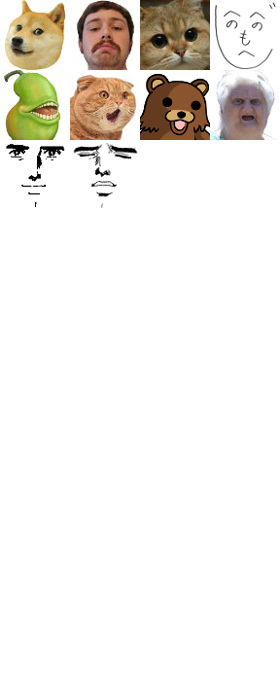
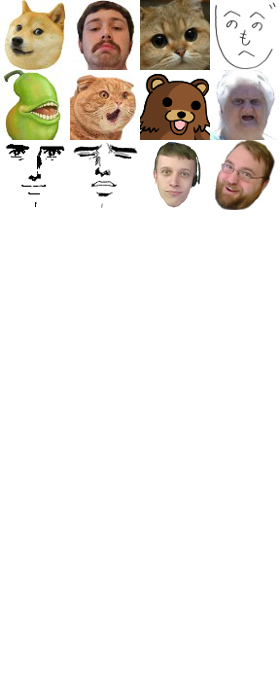
Add two more emotes
Derika and Babz
Also fixes to emote aliases.

Changed region(s): [[0.7714, 0.18, 1.0, 0.3], [0.5429, 0.18, 0.7143, 0.3]]

diff --git a/JabbR/Chat.emoji.js b/JabbR/Chat.emoji.js
@@ -7,13 +7,13 @@ var EmojiIcons;
     var validEmoji = { "+1": true, "-1": true, "0": true, "1": true, "109": true, "2": true, "3": true, "4": true, "5": true, "6": true, "7": true, "8": true, "8ball": true, "9": true, "a": true, "ab": true, "airplane": true, "alien": true, "ambulance": true, "angel": true, "anger": true, "angry": true, "apple": true, "aquarius": true, "aries": true, "arrow_backward": true, "arrow_down": true, "arrow_forward": true, "arrow_left": true, "arrow_lower_left": true, "arrow_lower_right": true, "arrow_right": true, "arrow_up": true, "arrow_upper_left": true, "arrow_upper_right": true, "art": true, "astonished": true, "atm": true, "b": true, "baby": true, "baby_chick": true, "baby_symbol": true, "balloon": true, "bamboo": true, "bank": true, "barber": true, "baseball": true, "basketball": true, "bath": true, "bear": true, "beer": true, "beers": true, "beginner": true, "bell": true, "bento": true, "bike": true, "bikini": true, "bird": true, "birthday": true, "black_square": true, "blue_car": true, "blue_heart": true, "blush": true, "boar": true, "boat": true, "bomb": true, "book": true, "boot": true, "bouquet": true, "bow": true, "bowtie": true, "boy": true, "bread": true, "briefcase": true, "broken_heart": true, "bug": true, "bulb": true, "bullettrain_front": true, "bullettrain_side": true, "bus": true, "busstop": true, "cactus": true, "cake": true, "calling": true, "camel": true, "camera": true, "cancer": true, "capricorn": true, "car": true, "cat": true, "cd": true, "chart": true, "checkered_flag": true, "cherry_blossom": true, "chicken": true, "christmas_tree": true, "church": true, "cinema": true, "city_sunrise": true, "city_sunset": true, "clap": true, "clapper": true, "clock1": true, "clock10": true, "clock11": true, "clock12": true, "clock2": true, "clock3": true, "clock4": true, "clock5": true, "clock6": true, "clock7": true, "clock8": true, "clock9": true, "closed_umbrella": true, "cloud": true, "clubs": true, "cn": true, "cocktail": true, "coffee": true, "cold_sweat": true, "computer": true, "confounded": true, "congratulations": true, "construction": true, "construction_worker": true, "convenience_store": true, "cool": true, "cop": true, "copyright": true, "couple": true, "couple_with_heart": true, "couplekiss": true, "cow": true, "crossed_flags": true, "crown": true, "cry": true, "cupid": true, "currency_exchange": true, "curry": true, "cyclone": true, "dancer": true, "dancers": true, "dango": true, "dart": true, "dash": true, "de": true, "department_store": true, "diamonds": true, "disappointed": true, "dog": true, "dolls": true, "dolphin": true, "dress": true, "dvd": true, "ear": true, "ear_of_rice": true, "egg": true, "eggplant": true, "eight_pointed_black_star": true, "eight_spoked_asterisk": true, "elephant": true, "email": true, "es": true, "european_castle": true, "exclamation": true, "eyes": true, "factory": true, "fallen_leaf": true, "fast_forward": true, "fax": true, "fearful": true, "feelsgood": true, "feet": true, "ferris_wheel": true, "finnadie": true, "fire": true, "fire_engine": true, "fireworks": true, "fish": true, "fist": true, "flags": true, "flushed": true, "football": true, "fork_and_knife": true, "fountain": true, "four_leaf_clover": true, "fr": true, "fries": true, "frog": true, "fuelpump": true, "gb": true, "gem": true, "gemini": true, "ghost": true, "gift": true, "gift_heart": true, "girl": true, "goberserk": true, "godmode": true, "golf": true, "green_heart": true, "grey_exclamation": true, "grey_question": true, "grin": true, "guardsman": true, "guitar": true, "gun": true, "haircut": true, "hamburger": true, "hammer": true, "hamster": true, "hand": true, "handbag": true, "hankey": true, "hash": true, "headphones": true, "heart": true, "heart_decoration": true, "heart_eyes": true, "heartbeat": true, "heartpulse": true, "hearts": true, "hibiscus": true, "high_heel": true, "horse": true, "hospital": true, "hotel": true, "hotsprings": true, "house": true, "hurtrealbad": true, "icecream": true, "id": true, "ideograph_advantage": true, "imp": true, "information_desk_person": true, "iphone": true, "it": true, "jack_o_lantern": true, "japanese_castle": true, "joy": true, "jp": true, "key": true, "kimono": true, "kiss": true, "kissing_face": true, "kissing_heart": true, "koala": true, "koko": true, "kr": true, "leaves": true, "leo": true, "libra": true, "lips": true, "lipstick": true, "lock": true, "loop": true, "loudspeaker": true, "love_hotel": true, "mag": true, "mahjong": true, "mailbox": true, "man": true, "man_with_gua_pi_mao": true, "man_with_turban": true, "maple_leaf": true, "mask": true, "massage": true, "mega": true, "memo": true, "mens": true, "metal": true, "metro": true, "microphone": true, "minidisc": true, "mobile_phone_off": true, "moneybag": true, "monkey": true, "monkey_face": true, "moon": true, "mortar_board": true, "mount_fuji": true, "mouse": true, "movie_camera": true, "muscle": true, "musical_note": true, "nail_care": true, "necktie": true, "new": true, "no_good": true, "no_smoking": true, "nose": true, "notes": true, "o": true, "o2": true, "ocean": true, "octocat": true, "octopus": true, "oden": true, "office": true, "ok": true, "ok_hand": true, "ok_woman": true, "older_man": true, "older_woman": true, "open_hands": true, "ophiuchus": true, "palm_tree": true, "parking": true, "part_alternation_mark": true, "pencil": true, "penguin": true, "pensive": true, "persevere": true, "person_with_blond_hair": true, "phone": true, "pig": true, "pill": true, "pisces": true, "point_down": true, "point_left": true, "point_right": true, "point_up": true, "point_up_2": true, "police_car": true, "poop": true, "post_office": true, "postbox": true, "pray": true, "princess": true, "punch": true, "purple_heart": true, "question": true, "rabbit": true, "racehorse": true, "radio": true, "rage": true, "rage1": true, "rage2": true, "rage3": true, "rage4": true, "rainbow": true, "raised_hands": true, "ramen": true, "red_car": true, "red_circle": true, "registered": true, "relaxed": true, "relieved": true, "restroom": true, "rewind": true, "ribbon": true, "rice": true, "rice_ball": true, "rice_cracker": true, "rice_scene": true, "ring": true, "rocket": true, "roller_coaster": true, "rose": true, "ru": true, "runner": true, "sa": true, "sagittarius": true, "sailboat": true, "sake": true, "sandal": true, "santa": true, "satellite": true, "satisfied": true, "saxophone": true, "school": true, "school_satchel": true, "scissors": true, "scorpius": true, "scream": true, "seat": true, "secret": true, "shaved_ice": true, "sheep": true, "shell": true, "ship": true, "shipit": true, "shirt": true, "shit": true, "shoe": true, "signal_strength": true, "six_pointed_star": true, "ski": true, "skull": true, "sleepy": true, "slot_machine": true, "smile": true, "smiley": true, "smirk": true, "smoking": true, "snake": true, "snowman": true, "sob": true, "soccer": true, "space_invader": true, "spades": true, "spaghetti": true, "sparkler": true, "sparkles": true, "speaker": true, "speedboat": true, "squirrel": true, "star": true, "star2": true, "stars": true, "station": true, "statue_of_liberty": true, "stew": true, "strawberry": true, "sunflower": true, "sunny": true, "sunrise": true, "sunrise_over_mountains": true, "surfer": true, "sushi": true, "suspect": true, "sweat": true, "sweat_drops": true, "swimmer": true, "syringe": true, "tada": true, "tangerine": true, "taurus": true, "taxi": true, "tea": true, "telephone": true, "tennis": true, "tent": true, "thumbsdown": true, "thumbsup": true, "ticket": true, "tiger": true, "tm": true, "toilet": true, "tokyo_tower": true, "tomato": true, "tongue": true, "top": true, "tophat": true, "traffic_light": true, "train": true, "trident": true, "trollface": true, "trophy": true, "tropical_fish": true, "truck": true, "trumpet": true, "tshirt": true, "tulip": true, "tv": true, "u5272": true, "u55b6": true, "u6307": true, "u6708": true, "u6709": true, "u6e80": true, "u7121": true, "u7533": true, "u7a7a": true, "umbrella": true, "unamused": true, "underage": true, "unlock": true, "up": true, "us": true, "v": true, "vhs": true, "vibration_mode": true, "virgo": true, "vs": true, "walking": true, "warning": true, "watermelon": true, "wave": true, "wc": true, "wedding": true, "whale": true, "wheelchair": true, "white_square": true, "wind_chime": true, "wink": true, "wink2": true, "wolf": true, "woman": true, "womans_hat": true, "womens": true, "x": true, "yellow_heart": true, "zap": true, "zzz": true };
     var validv4c = { "ducktart": "dooktart.png", "ready": "ready.gif", "birry": "ztop.gif", "vdog": "cat.gif", "gaben": "zgabe.gif", "3s": "seal.png", "burd": "birdy.gif", "snoop": "snoop.gif", "jimmies": "jimmy.gif", "sanic": "sonicx.png", "burgirl": "ss.gif", "dilbert": "dilbert.gif", "deepdarkfantasy": "fantasy.gif", "bioware": "biogurl.gif", "shazbot": "33.png", "bestkorea": "kim.gif", "hitoame": "shower.gif", "duane": "duane.gif", "keke": "keke6.png", "uncle": "VffoS.jpg", "reshiram": "ee.gif", "push": "push.gif", "autism": "a.gif", "juggalo": "ll.gif", "stanza": "heh.png", "bestgames": "pstriple.png", "gamestop": "spekettle.gif", "teto": "oz.gif", "fothegrove": "grove.gif", "aliens": "aliens.gif", "go": "zgo.gif", "pomf": "pomf.png", "kreayshawn": "kray.png", "bodywash": "bodywash.png", "goblinu": "zgobz.jpg", "feel": "1ducktart.jpg", "valien": "ssd.gif", "2spooky4me": "spooky.gif", "2spooky": "spooky.gif", "gooby": "o2XNE.jpg", "dosh": "dsdasd.png", "8bitdose": "wee2.gif", "costanza": "heh.png" };
     var validPony = { "ajlie": "a", "priceless": "a", "flutterjerk": "a", "flutterroll": "a", "twipride": "a", "celestiamad": "a", "twicrazy": "a", "spikemeh": "a", "lunateehee": "a", "lunawait": "a", "derpwizard": "a", "abmeh": "a", "ajhappy": "a", "pinkiefear": "a", "twibeam": "a", "scootaderp": "a", "raritydaww": "a", "scootacheer": "a", "swagintosh": "a", "pinkieawe": "a", "ajsup": "a", "flutterwhoa": "a", "rdcry": "a", "silverspoon": "a", "ohcomeon": "a", "ppcute": "a", "abbored": "a", "rarityreally": "a", "raritynews": "a", "sbbook": "a", "scootaplease": "a", "applegasp": "a", "twiright": "a", "celestiawut": "a", "grannysmith": "a", "rarishock": "a", "shiningarmor": "a", "chrysalis": "a", "cadence": "a", "applederp": "a", "flutterfear": "b", "ppboring": "b", "rarityyell": "b", "fluttershy": "b", "ajcower": "b", "ajsly": "b", "eeyup": "b", "rdsmile": "b", "fluttersrs": "b", "raritydress": "b", "takealetter": "b", "rdwut": "b", "ppshrug": "b", "spikenervous": "b", "noooo": "b", "dj": "b", "fluttershh": "b", "flutteryay": "b", "squintyjack": "b", "spikepushy": "b", "ajugh": "b", "raritywut": "b", "dumbfabric": "b", "raritywhy": "b", "trixiesmug": "b", "flutterwink": "b", "rarityannoyed": "b", "soawesome": "b", "ajwut": "b", "twisquint": "b", "raritywhine": "b", "rdcool": "b", "abwut": "b", "manspike": "b", "cockatrice": "b", "facehoof": "b", "rarityjudge": "b", "rarityprimp": "b", "twirage": "b", "ppseesyou": "b", "rdsitting": "c", "rdhappy": "c", "rdannoyed": "c", "trixiesad": "c", "twismug": "c", "twismile": "c", "twistare": "c", "changeling": "c", "ohhi": "c", "party": "c", "hahaha": "c", "rdscared": "c", "flutterblush": "c", "gross": "c", "derpyhappy": "c", "twidaww": "c", "ajfrown": "c", "hmmm": "c", "pinkiejoy": "c", "whattheflut": "c", "raritysad": "c", "fabulous": "c", "derp": "c", "cadencesmile": "c", "louder": "c", "lunasad": "c", "derpyshock": "c", "shiningpride": "c", "pinkamina": "c", "loveme": "c", "lunagasp": "c", "fluttercry": "c", "scootaloo": "c", "celestia": "c", "angelglare": "c", "sneakybelle": "c", "allmybits": "c", "zecora": "c", "photofinish": "c", "ppreally": "c", "stonie": "d", "pinkiehigh": "d", "rbtrippin": "d", "spikehigh": "d", "pervertedaj": "d", "twihigh": "d", "fluttersqueak": "d", "happyrarity": "d", "bakedrarity": "d", "rbhigh": "d", "ajhuh": "d", "flutterfree": "d", "celestreeia": "d", "awwshit": "d", "treepony": "d", "rbomg": "d", "mobboss": "d", "opalescence": "d", "sneakiepinkie": "d", "dirigible": "d", "trixiehigh": "d", "twiderp": "d", "whoovesing": "d", "twiheh": "d", "flutterhigh": "d", "derpyhigh": "d", "flutteryeah": "d", "spikegimmie": "d", "sirderp": "d", "twiblah": "d", "fluttersmoke": "d", "braeburnhuh": "d", "bakedspike": "d", "lunasly": "d", "derpinkie": "d", "lunasilly": "d", "rbreally": "d", "rarityhuh": "d", "bluebowl": "d", "fillytgap": "e", "rdhuh": "e", "snails": "e", "twisad": "e", "lyra": "e", "bonbon": "e", "spitfire": "e", "lunamad": "e", "cutealoo": "e", "happyluna": "e", "sotrue": "e", "discordsad": "e", "wahaha": "e", "sbstare": "e", "punchdrunk": "e", "maud": "e", "huhhuh": "e", "absmile": "e", "dealwithit": "e", "pinkiepout": "e", "nmm": "e", "whooves": "e", "rdsalute": "e", "octavia": "e", "colgate": "e", "cheerilee": "e", "ajbaffle": "e", "abhuh": "e", "thehorror": "e", "twiponder": "e", "spikewtf": "e", "awwyeah": "e", "gilda": "e", "discentia": "e", "manlytears": "e" };
-    var validHotglue = { "doge": "1", "fertilemeadors": "1", "game": "1", "henohenomoheji": "1", "lolwut": "1", "moar": "1", "pedobear": "1", "wut": "1", "yaranaika1": "1", "yaranaika2": "1" };
+    var validHotglue = { "doge": "1", "fertilemeadors": "1", "game": "1", "henohenomoheji": "1", "lolwut": "1", "moar": "1", "pedobear": "1", "wut": "1", "yaranaika1": "1", "yaranaika2": "1", "derika": "1", "babz": "1" };
     var validYukkuri = { "marisa1": true, "marisa2": true, "marisa3": true, "marisa4": true, "marisa5": true, "marisa6": true, "marisa7": true, "marisa8": true, "marisa9": true, "marisa10": true, "marisa11": true, "marisa12": true, "marisa13": true, "marisa14": true, "marisa15": true, "marisa16": true, "reimu1": true, "reimu2": true, "reimu3": true, "reimu4": true, "reimu5": true, "reimu6": true, "reimu7": true, "reimu8": true, "reimu9": true, "reimu10": true, "reimu11": true, "reimu12": true, "reimu13": true, "reimu14": true, "reimu15": true, "reimu16": true };
 
     var validAlias = {
-        "\\:-?\\)": ":smile:", ":-?D\\b": ":grin:", ";-?\\)": ":wink:", "\\:-?\\(": ":disappointed:", "\\:'-?\\(": ":cry:", ":-?P\\b": ":tongue:", ":-?p\\b": ":tongue:", ":-?O\\b": ":astonished:", ":-?o\\b": ":astonished:", "<3": ":heart:",
-        "m\\:3\\b": ":marisa11:", "m\\^\\^": ":marisa10:", "m>[oO]<": ":marisa9:", "m\\:[oO]\\b": ":marisa15:", "m\\^\\^;": ":marisa14:", "m--;": ":marisa13:", "m\\:\\?": ":marisa12:", "m==\\b": ":marisa4:", "mXD\\b": ":marisa3:", "m\\:P\\b": ":marisa2:", "m\\:\\)": ":marisa16:", "m>\\:\\(": ":marisa8:", "m\\:[cC]\\b": ":marisa7:", "m\\:\\(": ":marisa6:", "m\\/\\/\\/": ":marisa5:",
-        "r\\:3\\b": ":reimu11:", "r\\^\\^": ":reimu10:", "r>[oO]<": ":reimu9:", "r\\:[oO]\\b": ":reimu15:", "r\\^\\^;": ":reimu14:", "r--;": ":reimu13:", "r\\:\\?": ":reimu12:", "r==\\b": ":reimu4:", "rXD\\b": ":reimu3:", "r\\:P\\b": ":reimu2:", "r\\:\\)": ":reimu16:", "r>\\:\\(": ":reimu8:", "r\\:[cC]\\b": ":reimu7:", "r\\:\\(": ":reimu6:", "r\\/\\/\\/": ":reimu5:"
+    	"m\\:3\\b": ":marisa11:", "m\\^\\^": ":marisa10:", "m>o<": ":marisa9:", "m>O<": ":marisa9:", "m\\:o\\b": ":marisa15:", "m\\:O\\b": ":marisa15:", "m\\^\\^;": ":marisa14:", "m--;": ":marisa13:", "m\\:\\?": ":marisa12:", "m==\\b": ":marisa4:", "mXD\\b": ":marisa3:", "m\\:p\\b": ":marisa2:", "m\\:P\\b": ":marisa2:", "m\\:\\)": ":marisa16:", "m>\\:\\(": ":marisa8:", "m\\:c\\b": ":marisa7:", "m\\:C\\b": ":marisa7:", "m\\:\\(": ":marisa6:", "m\\/\\/\\/": ":marisa5:",
+    	"r\\:3\\b": ":reimu11:", "r\\^\\^": ":reimu10:", "r>o<": ":reimu9:", "r>O<": ":reimu9:", "r\\:o\\b": ":reimu15:", "r\\:O\\b": ":reimu15:", "r\\^\\^;": ":reimu14:", "r--;": ":reimu13:", "r\\:\\?": ":reimu12:", "r==\\b": ":reimu4:", "rXD\\b": ":reimu3:", "r\\:p\\b": ":reimu2:", "r\\:P\\b": ":reimu2:", "r\\:\\)": ":reimu16:", "r>\\:\\(": ":reimu8:", "r\\:c\\b": ":reimu7:", "r\\:C\\b": ":reimu7:", "r\\:\\(": ":reimu6:", "r\\/\\/\\/": ":reimu5:",
+        "\\:-?\\)": ":smile:", ":-?D\\b": ":grin:", ";-?\\)": ":wink:", "\\:-?\\(": ":disappointed:", "\\:'-?\\(": ":cry:", ":-?P\\b": ":tongue:", ":-?p\\b": ":tongue:", ":-?O\\b": ":astonished:", ":-?o\\b": ":astonished:", "<3": ":heart:"
     };
 
     // initialize emote list dialog

diff --git a/JabbR/Content/hotgluemoticon.css b/JabbR/Content/hotgluemoticon.css
@@ -11,9 +11,9 @@
 .hotgluemoticon-wut { background-position: -210px -70px; }
 .hotgluemoticon-yaranaika1 { background-position: -0px -140px; }
 .hotgluemoticon-yaranaika2 { background-position: -70px -140px; }
-/*.hotgluemoticon-derpwizard { background-position: -140px -140px; }
-.hotgluemoticon-abmeh { background-position: -210px -140px; }
-.hotgluemoticon-ajhappy { background-position: -0px -210px; }
+.hotgluemoticon-derika { background-position: -140px -140px; }
+.hotgluemoticon-babz { background-position: -210px -140px; }
+/*.hotgluemoticon-ajhappy { background-position: -0px -210px; }
 .hotgluemoticon-pinkiefear { background-position: -70px -210px; }
 .hotgluemoticon-twibeam { background-position: -140px -210px; }
 .hotgluemoticon-scootaderp { background-position: -210px -210px; }
